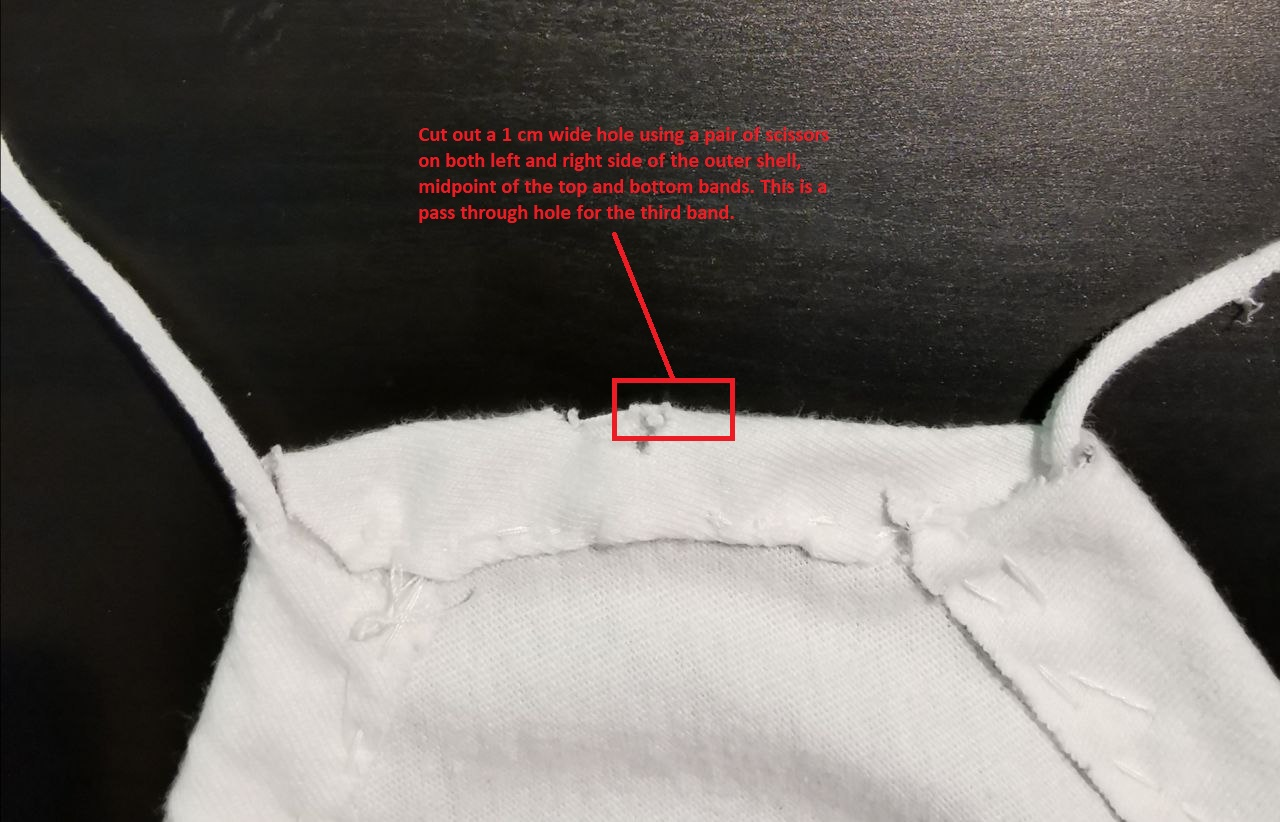
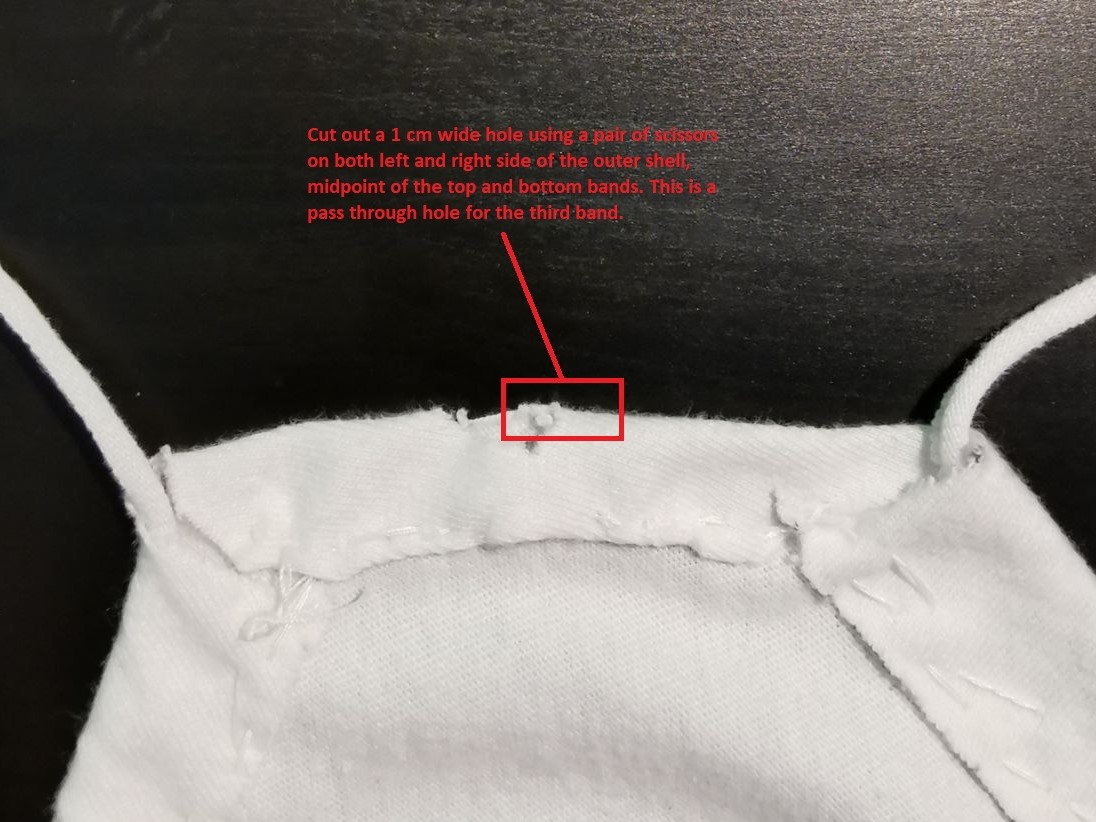
Lowercase JPG for v04-12b.JPG

diff --git a/_posts/2020-04-15-Tomato-Masks-Type-1-A-DIY-Fine-Particulate-Mask.md b/_posts/2020-04-15-Tomato-Masks-Type-1-A-DIY-Fine-Particulate-Mask.md
@@ -334,7 +334,7 @@ In this segment, there are **two options**:
         </td>
     </tr>
     <tr>
-        <td style="width:400px">
+        <td>
             <img class="tbl"  src="/images/type1v04/v04-2.jpg">
             <br>
             2. Cut out the excess as shown above. The idea here is to fold the outer hexagon inward along the inner hexagon’s sides. This will create a loop to pass through elastic strands.
@@ -406,3 +406,35 @@ In this segment, there are **two options**:
         </td>        
     </tr>
 </table>
+
+### Layer Integration
+
+It is time to integrate the two layers:
+
+<table align="center" style="text-align:left; width: 900">
+    <tr>
+        <td style="width:400px">
+            <img class="tbl"  src="/images/type1v04/v04-13.jpg">
+            <br>
+            1. Cut out two, 1 cm wide holes, on both left and right sides of the outer shell, midway between top and bottom strips.
+        </td>
+        <td style="width:400px">
+            <img class="tbl"  src="/images/type1v04/v04-14.jpg">
+            <br>
+            2. Pass through the two strips from the inner shell on both left and right openings. Please note that the embedded folded aluminum piece should face up and should line up with the paper clip nose clamp of the outer shell.
+        </td>
+    </tr>
+    <tr>
+        <td colspan="2">
+            3. The final result should look like this: 
+            <br>
+            <br>
+            <p align="center">
+            <img src="/images/type1v04/fullmask.jpg" width="450px">
+            </p>
+            <br>
+            Later, a disposable filter will be placed inside this layer to cover the square hole.
+        </td>
+    </tr>
+</table>
+
